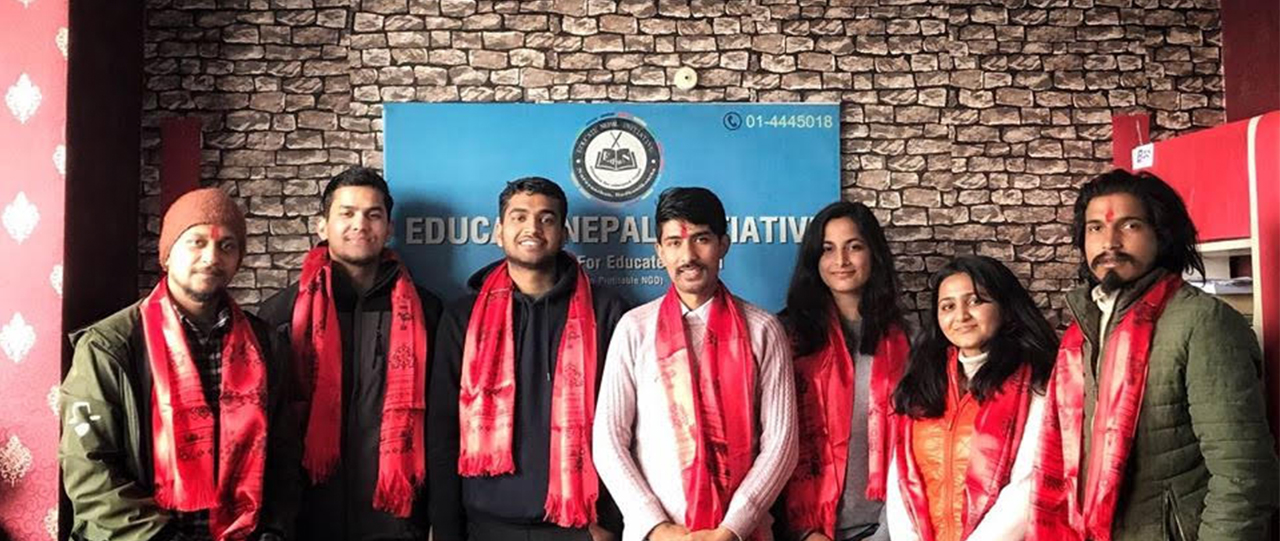
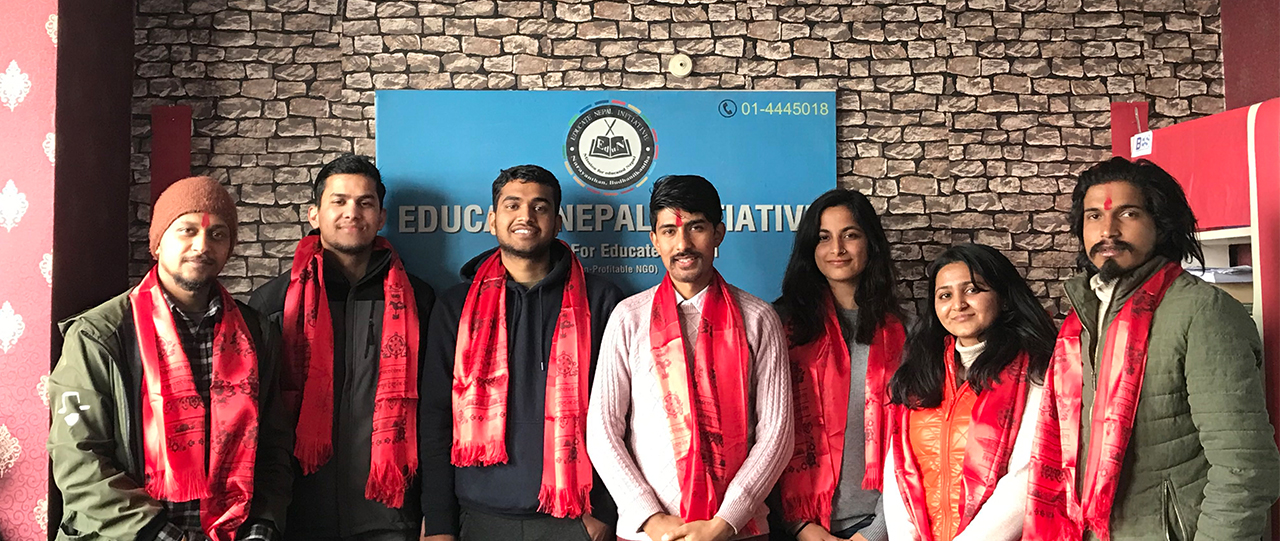
Added images

diff --git a/staff.html b/staff.html
@@ -84,7 +84,7 @@
                         <a class="dropdown-item" href="history.html">Our history</a>
                         <a class="dropdown-item" href="challenges.html">Our Challenges</a>
                         <a class="dropdown-item" href="approach.html">Our Approach</a>
-                        <a class="dropdown-item" href="staff.html">Our Staffs</a>
+                        <a class="dropdown-item" href="staff.html">Our Team</a>
                         <a class="dropdown-item" href="partner.html">Partners & Donors</a>
 
                     </div>
@@ -288,7 +288,7 @@
 
             <div class="col-lg-4 col-md-6 staffs__content u-margin-top-middle">
                 <div class="div">
-                    <img src="img/person1.jpg" alt="" width="100%">
+                    <img src="img/asutosh.jpg" alt="" width="100%">
                     <h1 class=" heading-tertiary">
                         <span class="heading-tertiary--main">
                             Asutosh Karki

diff --git a/index.html b/index.html
@@ -88,7 +88,7 @@
                         <a class="dropdown-item" href="history.html">Our history</a>
                         <a class="dropdown-item" href="challenges.html">Our Challenges</a>
                         <a class="dropdown-item" href="approach.html">Our Approach</a>
-                        <a class="dropdown-item" href="staff.html">Our Staffs</a>
+                        <a class="dropdown-item" href="staff.html">Our Team</a>
                         <a class="dropdown-item" href="partner.html">Partners & Donors</a>
                     </div>
                 </li>

diff --git a/history.html b/history.html
@@ -84,7 +84,7 @@
                         <a class="dropdown-item" href="history.html">Our history</a>
                         <a class="dropdown-item" href="challenges.html">Our Challenges</a>
                         <a class="dropdown-item" href="approach.html">Our Approach</a>
-                        <a class="dropdown-item" href="staff.html">Our Staffs</a>
+                        <a class="dropdown-item" href="staff.html">Our Team</a>
                         <a class="dropdown-item" href="partner.html">Partners & Donors</a>
 
                     </div>
